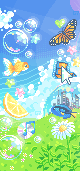
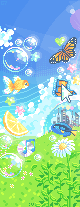
Add files via upload

diff --git a/style.css b/style.css
@@ -38,7 +38,7 @@ body {
   background:linear-gradient(45deg, rgba(255,249,223,0.4), rgba(255,249,223,0.4)), url(Items/FrutigerPCOriginal.png); /* Hace que el fondo se vea con un "velo" */
 
   background-position: center;
-  background-size:cover;
+  background-size: cover;
   background-repeat: no-repeat;
   background-attachment: scroll;
 
@@ -135,7 +135,7 @@ footer p{
 }
 
     body {
-    background:linear-gradient(45deg, rgba(255,249,223,0.5), rgba(255,249,223,0.5)), url('Items/FrutigerCelularOriginal.png');
+    background:linear-gradient(45deg, rgba(255,249,223,0.5), rgba(255,249,223,0.6)), url(Items/FrutigerCelularOriginal.png);
     
     background-size: cover;
     background-position: top;
@@ -164,6 +164,7 @@ footer p{
 
 .Links a {
   background-image: url(Items/Button\ cel.png);
+  background-size: contain;
   max-width: 100vh;
   width: 100%;
   display:block;
@@ -190,5 +191,5 @@ footer p{
   } /* Efecto Touch */
 
   footer h2{
-  font-size: 26px
+  font-size: 28px
 }